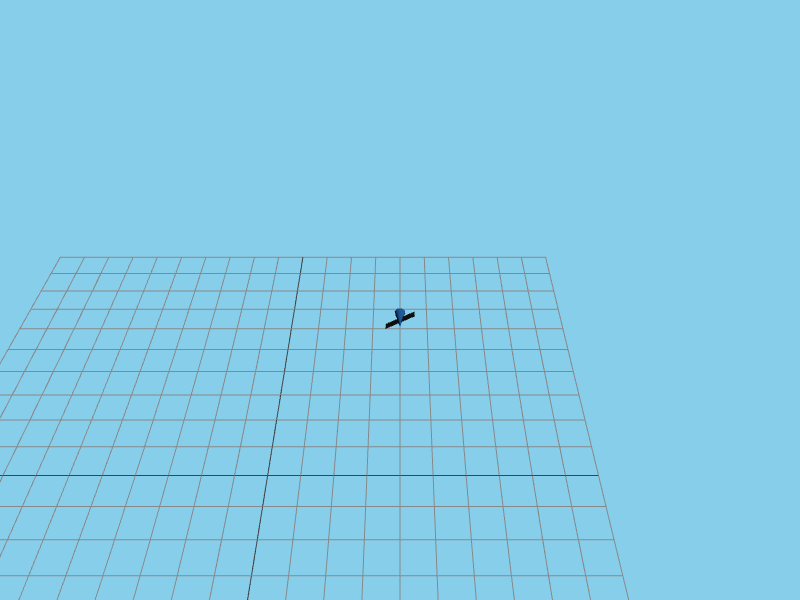
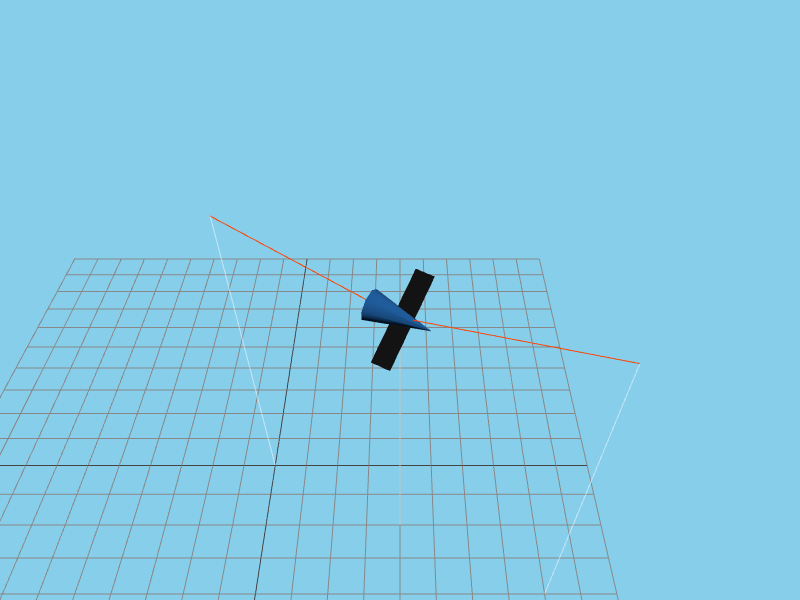
fix: orient jet along its flight path and make the storyboard legible
The jet rendered broadside: rotation.set(pitch, 0, roll) hardcoded yaw to
0, so the nose stayed pinned to a fixed world direction while the jet
translated diagonally. The forward vector was already computed, but only
inside the chase-camera branch and only for camera placement.

Orientation now comes from the path in both camera modes: lookAt() aims
the model's local +Z nose down the direction of travel, and the
scene-authored pitch/roll are applied on top as additive offsets (angle
of attack and bank) rather than replacing the path's own climb angle.

Note Object3D.lookAt() swaps its matrix arguments for a non-camera
object, so local +Z points AT the target, not -Z; verified empirically
against the rendered output.

Storyboard legibility (spec: "por deixar a geometria mais clara"):

- The jet occupied ~0.3% of the frame, making pitch/roll unreadable.
  Tactical view now applies a visual-only 3.5x scale to the jet and
  derives camera distance from the trajectory's bounding sphere and the
  FOV instead of using the raw axis spread as a distance.
- Added a trajectory line sampling the same interpolation the jet
  follows, plus drop lines to the ground grid, so the storyboard shows
  the diagonal plane being flown. Both are tactical-only: in the chase
  view the camera looks straight down the path and the line projects
  onto the jet as a distracting vertical bar.
- tacticalCameraPosition() is hoisted out of the per-frame loop; it only
  depends on the static keyframes.
[…]

Changed region(s): [[0.0, 0.39, 0.7812, 1.0], [0.25, 0.36, 0.2812, 0.39]]

diff --git a/visuals/render/harness-entry.js b/visuals/render/harness-entry.js
@@ -8,6 +8,9 @@ const sceneId = params.get('scene');
 const sceneModule = await import(`../scenes/${sceneId}.js`);
 const keyframes = sceneModule.default.keyframes;
 
+const firstT = keyframes[0].t;
+const lastT = keyframes[keyframes.length - 1].t;
+
 const canvas = document.getElementById('canvas');
 const renderer = new THREE.WebGLRenderer({ canvas, antialias: true });
 renderer.setSize(800, 600);
@@ -24,35 +27,103 @@ scene.add(sun);
 const jet = buildJet();
 scene.add(jet);
 
+// Visual-only scale applied in the tactical (storyboard) view. The trajectory
+// spans ~90 units while the jet model is ~6 units long, so at a framing that
+// contains the whole path the jet renders as a handful of pixels and its
+// pitch/roll geometry — the entire point of the storyboard — is unreadable.
+// This is legibility, not physical accuracy: the chase view keeps scale 1.
+const TACTICAL_JET_SCALE = 3.5;
+
+// Trajectory line: samples the same interpolation the jet follows, so the
+// storyboard shows the diagonal plane being flown, not just an isolated dot.
+const TRAJECTORY_SAMPLES = 160;
+const trajectoryPoints = [];
+for (let i = 0; i <= TRAJECTORY_SAMPLES; i += 1) {
+  const t = firstT + ((lastT - firstT) * i) / TRAJECTORY_SAMPLES;
+  const { pos } = interpolateKeyframes(keyframes, t);
+  trajectoryPoints.push(new THREE.Vector3(pos[0], pos[1], pos[2]));
+}
+const trajectory = new THREE.Line(
+  new THREE.BufferGeometry().setFromPoints(trajectoryPoints),
+  new THREE.LineBasicMaterial({ color: 0xff4400 })
+);
+scene.add(trajectory);
+
+// Vertical drop lines from each keyframe down to the ground grid, to hint at
+// altitude. Kept in the same group as the trajectory so both toggle together.
+const dropPoints = [];
+for (const keyframe of keyframes) {
+  dropPoints.push(new THREE.Vector3(keyframe.pos[0], keyframe.pos[1], keyframe.pos[2]));
+  dropPoints.push(new THREE.Vector3(keyframe.pos[0], 0, keyframe.pos[2]));
+}
+const dropLines = new THREE.LineSegments(
+  new THREE.BufferGeometry().setFromPoints(dropPoints),
+  new THREE.LineBasicMaterial({ color: 0xffffff, transparent: true, opacity: 0.5 })
+);
+scene.add(dropLines);
+
 const camera = new THREE.PerspectiveCamera(50, 800 / 600, 0.1, 1000);
+
+// Invariant across the whole storyboard loop: depends only on the static
+// keyframes, so compute it once rather than on every frame.
+// The jet model's largest half-extent is its 6-unit wingspan (half = 3); pad
+// the framing by that, scaled, so the jet never clips at the frame edge.
+const tacticalRig = tacticalCameraPosition(keyframes, { padding: TACTICAL_JET_SCALE * 3 });
+
+/**
+ * Unit direction of travel at time `t`, via a central finite difference on the
+ * interpolated path. Falls back to +Z if the path is degenerate at this point.
+ */
+function forwardAt(t) {
+  const dt = 0.05;
+  const before = interpolateKeyframes(keyframes, Math.max(firstT, t - dt));
+  const after = interpolateKeyframes(keyframes, Math.min(lastT, t + dt));
+  const raw = new THREE.Vector3(
+    after.pos[0] - before.pos[0],
+    after.pos[1] - before.pos[1],
+    after.pos[2] - before.pos[2]
+  );
+  if (raw.lengthSq() === 0) return new THREE.Vector3(0, 0, 1);
+  return raw.normalize();
+}
+
+const scratch = new THREE.Vector3();
 
 function applyFrame(t, cameraMode) {
   const frame = interpolateKeyframes(keyframes, t);
-  jet.position.set(frame.pos[0], frame.pos[1], frame.pos[2]);
-  jet.rotation.set(
-    THREE.MathUtils.degToRad(frame.pitch),
-    0,
-    THREE.MathUtils.degToRad(frame.roll)
-  );
+  const forward = forwardAt(t);
 
-  let rig;
-  if (cameraMode === 'tatica') {
-    rig = tacticalCameraPosition(keyframes);
-  } else {
-    const firstT = keyframes[0].t;
-    const lastT = keyframes[keyframes.length - 1].t;
-    const dt = 0.05;
-    const before = interpolateKeyframes(keyframes, Math.max(firstT, t - dt));
-    const after = interpolateKeyframes(keyframes, Math.min(lastT, t + dt));
-    const rawForward = [
-      after.pos[0] - before.pos[0],
-      after.pos[1] - before.pos[1],
-      after.pos[2] - before.pos[2],
-    ];
-    const length = Math.hypot(...rawForward) || 1;
-    const forward = rawForward.map((v) => v / length);
-    rig = chaseCameraPosition(frame.pos, forward);
-  }
+  jet.position.set(frame.pos[0], frame.pos[1], frame.pos[2]);
+
+  // Orientation = path-derived heading/climb, then the scene-authored pitch and
+  // roll applied as offsets on top of it.
+  //
+  // The jet model's nose is local +Z (jet.js rotates the cone's tip onto +Z).
+  // Object3D.lookAt() aims local -Z at the target for cameras and lights, but
+  // for a plain Object3D it swaps the matrix arguments, so local +Z ends up
+  // pointing AT the target — verified empirically. Looking one unit ahead along
+  // the path therefore puts the nose on the direction of travel.
+  scratch.copy(jet.position).add(forward);
+  jet.lookAt(scratch);
+
+  // Scene `pitch` is an additive nose attitude on top of the path's own climb
+  // angle (angle of attack / deliberate stick input), not a replacement for it.
+  // Positive = nose up; a positive rotation about local +X pitches the nose
+  // down in this frame, hence the negation. Roll then banks about the nose axis
+  // (local +Z), applied after pitch so it rolls around the actual nose.
+  jet.rotateX(-THREE.MathUtils.degToRad(frame.pitch));
+  jet.rotateZ(THREE.MathUtils.degToRad(frame.roll));
+
+  const tactical = cameraMode === 'tatica';
+  jet.scale.setScalar(tactical ? TACTICAL_JET_SCALE : 1);
+  // Storyboard-only overlays. In the chase view the camera looks straight down
+  // the path, so the trajectory line projects onto the jet as a distracting
+  // vertical bar rather than reading as a flight path; the drop lines likewise
+  // need the ground grid, which the chase camera does not have in frame.
+  trajectory.visible = tactical;
+  dropLines.visible = tactical;
+
+  const rig = tactical ? tacticalRig : chaseCameraPosition(frame.pos, forward.toArray());
 
   camera.position.set(rig.position[0], rig.position[1], rig.position[2]);
   camera.lookAt(rig.lookAt[0], rig.lookAt[1], rig.lookAt[2]);

diff --git a/visuals/scenes/shared/cameraRigs.js b/visuals/scenes/shared/cameraRigs.js
@@ -1,4 +1,23 @@
-export function tacticalCameraPosition(keyframes) {
+/**
+ * Tactical (storyboard) camera: an elevated 3/4 view that frames the whole
+ * trajectory. The distance is derived from the trajectory's bounding sphere and
+ * the camera's field of view, so the camera sits only as far back as it needs
+ * to in order to contain the path — instead of using the raw axis spread as a
+ * distance, which pushed the camera much further out than necessary and made
+ * the jet unreadably small.
+ */
+export function tacticalCameraPosition(keyframes, options = {}) {
+  const {
+    fovDeg = 50,
+    aspect = 800 / 600,
+    margin = 1.05,
+    minRadius = 12,
+    // Half-extent of whatever is drawn *at* a trajectory point (i.e. the jet).
+    // Keyframes are points, so without this the jet gets clipped at the frame
+    // edge when it sits on the bounding box boundary.
+    padding = 0,
+  } = options;
+
   const xs = keyframes.map((k) => k.pos[0]);
   const ys = keyframes.map((k) => k.pos[1]);
   const zs = keyframes.map((k) => k.pos[2]);
@@ -9,14 +28,24 @@ export function tacticalCameraPosition(keyframes) {
     (Math.min(...zs) + Math.max(...zs)) / 2,
   ];
 
-  const spread = Math.max(
-    Math.max(...xs) - Math.min(...xs),
-    Math.max(...zs) - Math.min(...zs),
-    20
-  );
+  const half = [
+    (Math.max(...xs) - Math.min(...xs)) / 2,
+    (Math.max(...ys) - Math.min(...ys)) / 2,
+    (Math.max(...zs) - Math.min(...zs)) / 2,
+  ];
+
+  const radius =
+    (Math.max(minRadius, Math.hypot(half[0], half[1], half[2])) + padding) * margin;
+
+  const vFov = (fovDeg * Math.PI) / 180;
+  const hFov = 2 * Math.atan(Math.tan(vFov / 2) * aspect);
+  const distance = Math.max(radius / Math.tan(vFov / 2), radius / Math.tan(hFov / 2));
+
+  // Elevated 45-degree 3/4 view: equal height and depth offsets.
+  const offset = distance / Math.SQRT2;
 
   return {
-    position: [center[0], center[1] + spread, center[2] + spread],
+    position: [center[0], center[1] + offset, center[2] + offset],
     lookAt: center,
   };
 }
